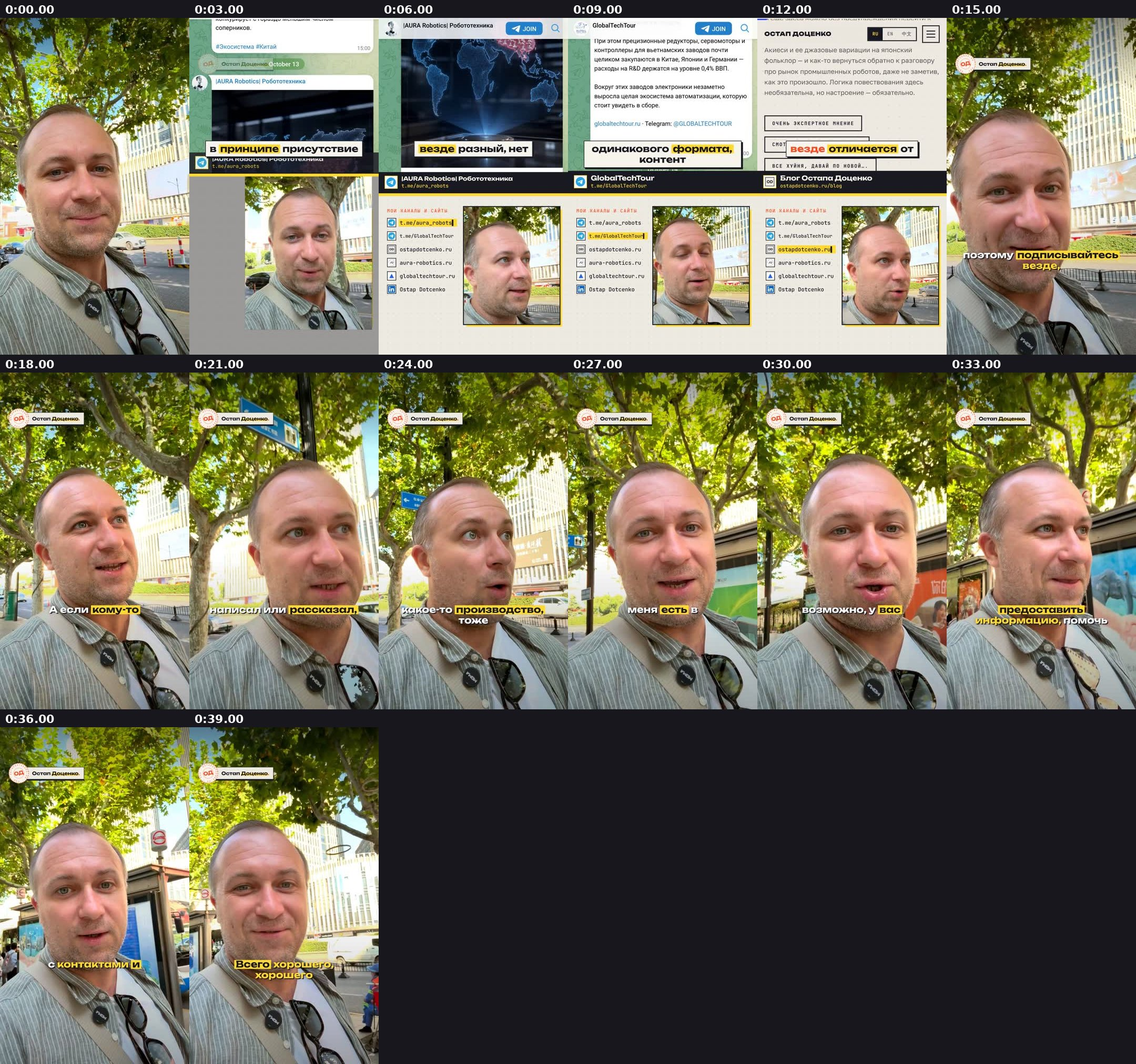
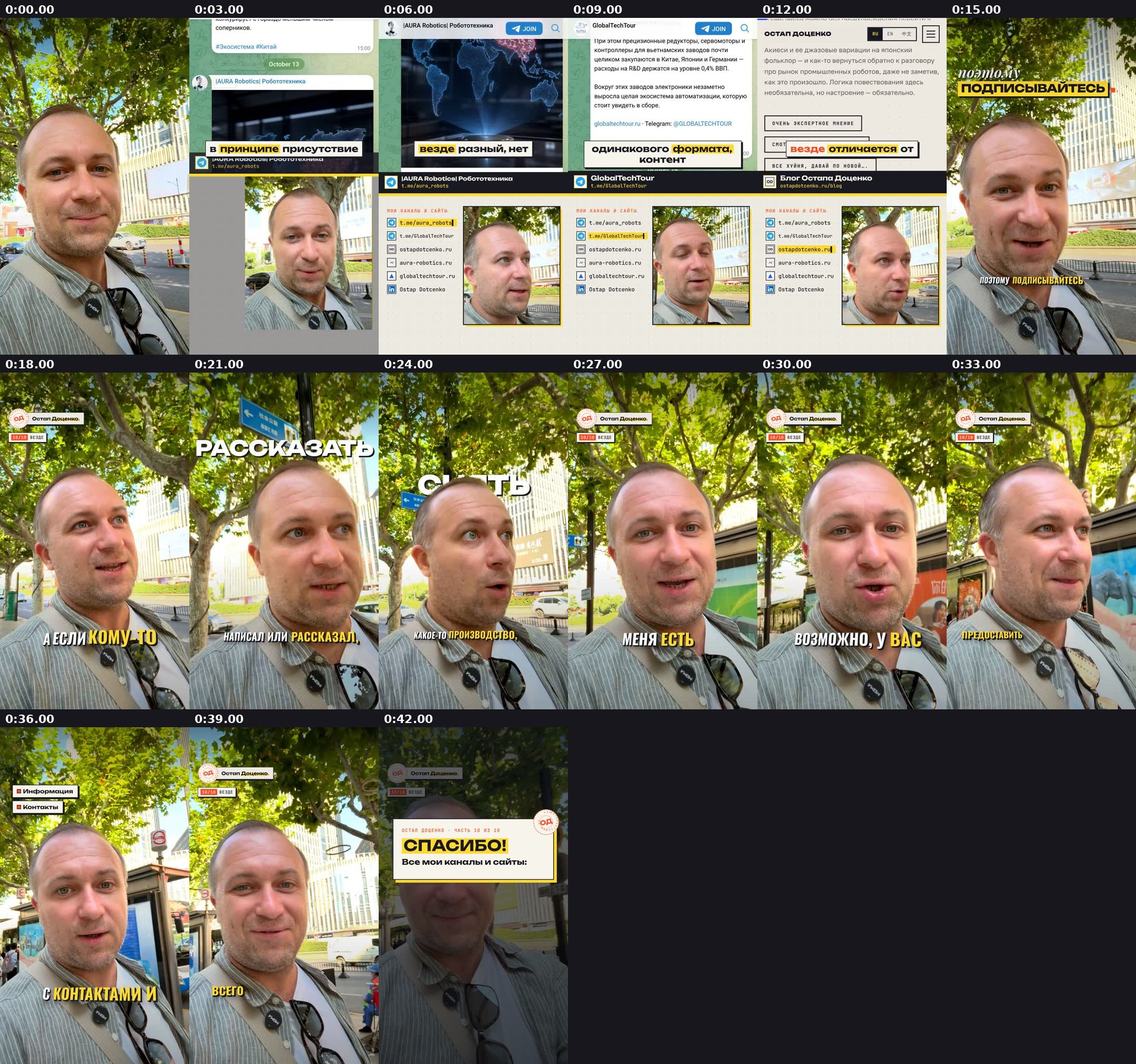
Серия ostapdotcenko, часть 10/10 «Везде» (od-5), черновая; финальная карточка: ссылки по умолчанию OD_LINKS
Claude-Session: https://claude.ai/code/session_01GWbvgKxue3PjjbbHEP4BVJ

diff --git a/reels-studio/src/compositions/TalkReelPro.tsx b/reels-studio/src/compositions/TalkReelPro.tsx
@@ -24,7 +24,7 @@ import {AuraMascot, type GestureKind, type MascotPlan, type MascotStay} from "..
 import {GttIntro} from "./GttIntro";
 import {OdBadge} from "../components/OdBadge";
 import {LinkArrow, SocialCard, SocialGrid} from "../components/SocialCard";
-import {activeScreen, captionTopFor, chainScreens, DropBackdrop, DropFrame, ScreenPanel, speakerCardStyle, speakerShift} from "../components/ScreenOverlay";
+import {activeScreen, captionTopFor, chainScreens, DropBackdrop, DropFrame, OD_LINKS, ScreenPanel, speakerCardStyle, speakerShift} from "../components/ScreenOverlay";
 import {HookTitle, hookSounds, type HookItem} from "../components/HookTitle";
 import {bwFilter, ColorWipes, EpisodeOutro, EpisodeTag} from "../components/SeriesFx";
 import {loadFont as loadOswald} from "@remotion/google-fonts/Oswald";
@@ -1772,7 +1772,7 @@ const TalkReelProBody: React.FC<TalkReelProProps> = (p) => {
         </div>
       )}
       <ColorWipes fx={p.fx} />
-      {p.episode ? <EpisodeOutro ep={p.episode} start={p.speechSeconds - 0.05} links={p.links} /> : null}
+      {p.episode ? <EpisodeOutro ep={p.episode} start={p.speechSeconds - 0.05} links={p.links ?? OD_LINKS} /> : null}
       {p.showSafeZone ? <SafeZone /> : null}
     </AbsoluteFill>
     </BrandCtx.Provider>
